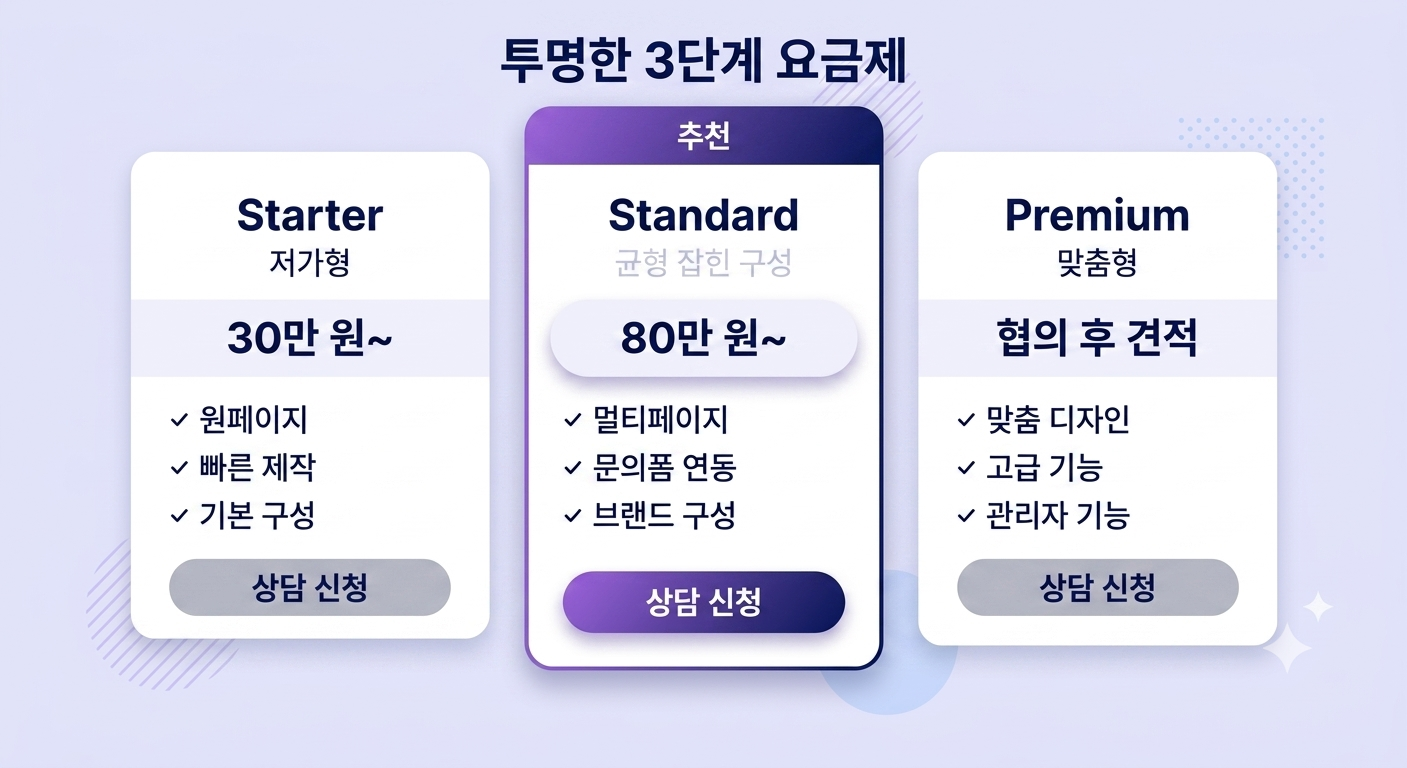
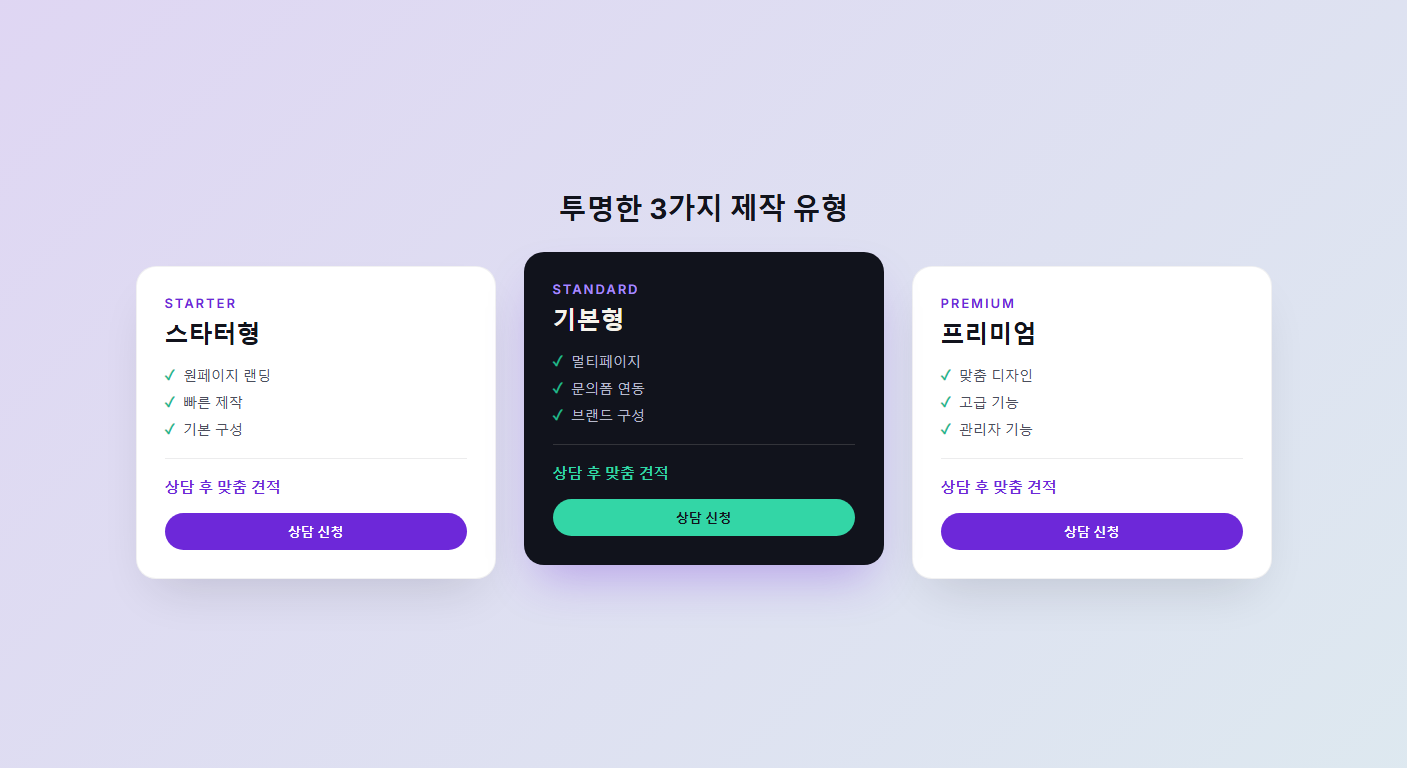
Improve homepage service flow

diff --git a/BuilDOn-site-clean/index.html b/BuilDOn-site-clean/index.html
@@ -457,11 +457,57 @@
     </div>
   </section>
 
-  <!-- ===================== BANNER STRIP ===================== -->
-  <section class="bg-violet">
-    <div class="max-w-7xl mx-auto px-6 lg:px-10 py-6 flex flex-col sm:flex-row items-center justify-between gap-4 text-center sm:text-left">
-      <p class="text-cream text-sm sm:text-base font-medium">여러분의 홈페이지 제작, 투명한 3단계 요금제로 알려드립니다.</p>
-      <a href="#services"><button class="btn-cream px-5 py-2.5 rounded-full text-sm font-medium whitespace-nowrap">요금제 보러가기 →</button></a>
+  <!-- ===================== OUR SERVICE ===================== -->
+  <section id="services" class="bg-white py-24 sm:py-32">
+    <div class="max-w-7xl mx-auto px-6 lg:px-10">
+      <div class="text-center mb-16">
+        <p class="text-ink/50 text-sm">처음 시작하는 홈페이지부터 맞춤형 제작까지, 예산과 목적에 맞춰 문의로 이어지는 홈페이지를 만들어 드립니다.</p>
+        <h2 class="font-display text-3xl sm:text-4xl lg:text-5xl mt-3 inline-flex items-center gap-2">
+          Our Service <span class="w-2 h-2 rounded-full bg-violet inline-block"></span>
+        </h2>
+        <p class="text-ink/60 text-sm sm:text-base mt-4">예산과 목적에 맞는 세 가지 제작 방식 중에서 선택하세요 — 카드를 클릭하면 바로 상담 신청으로 이동합니다</p>
+      </div>
+
+      <div class="grid grid-cols-1 sm:grid-cols-3 gap-6 lg:gap-8">
+        <a href="#contact" class="service-card relative block bg-white rounded-2xl shadow-card border border-ink/8 p-8 overflow-hidden">
+          <p class="text-xs tracking-[0.2em] uppercase text-violet font-medium mb-4">Starter</p>
+          <h3 class="font-display text-2xl mb-2">스타터형</h3>
+          <p class="text-sm text-ink/60 leading-relaxed">1인기업·소규모 브랜드를 위한 원페이지/랜딩페이지 제작</p>
+          <div class="flex items-baseline gap-1 mt-6 mb-2">
+            <span class="text-violet font-semibold text-xl">상담 후 맞춤 견적</span><span class="text-ink/50 text-sm">· 3~5일</span>
+          </div>
+          <span class="inline-flex items-center gap-1 text-sm font-medium text-ink mt-4">
+            상담 신청하기 <span aria-hidden="true">→</span>
+          </span>
+          <svg class="absolute -right-3 -bottom-3 w-24 h-24 text-violet/10" viewBox="0 0 24 24" fill="currentColor"><path d="M9 12h6m-6 4h6m2 5H7a2 2 0 01-2-2V5a2 2 0 012-2h5.586a1 1 0 01.707.293l5.414 5.414a1 1 0 01.293.707V19a2 2 0 01-2 2z" /></svg>
+        </a>
+
+        <a href="#contact" class="service-card relative block bg-white rounded-2xl shadow-card border border-ink/8 p-8 overflow-hidden">
+          <p class="text-xs tracking-[0.2em] uppercase text-mint-dark font-medium mb-4">Standard</p>
+          <h3 class="font-display text-2xl mb-2">기본형</h3>
+          <p class="text-sm text-ink/60 leading-relaxed">멀티페이지 브랜드사이트, 예약·문의 폼 연동까지 갖춘 제작</p>
+          <div class="flex items-baseline gap-1 mt-6 mb-2">
+            <span class="text-violet font-semibold text-xl">상담 후 맞춤 견적</span><span class="text-ink/50 text-sm">· 1~2주</span>
+          </div>
+          <span class="inline-flex items-center gap-1 text-sm font-medium text-ink mt-4">
+            상담 신청하기 <span aria-hidden="true">→</span>
+          </span>
+          <svg class="absolute -right-3 -bottom-3 w-24 h-24 text-mint/10" viewBox="0 0 24 24" fill="currentColor"><path d="M3.75 6A2.25 2.25 0 016 3.75h2.25A2.25 2.25 0 0110.5 6v2.25a2.25 2.25 0 01-2.25 2.25H6a2.25 2.25 0 01-2.25-2.25V6zM3.75 15.75A2.25 2.25 0 016 13.5h2.25a2.25 2.25 0 012.25 2.25V18a2.25 2.25 0 01-2.25 2.25H6A2.25 2.25 0 013.75 18v-2.25zM13.5 6a2.25 2.25 0 012.25-2.25H18A2.25 2.25 0 0120.25 6v2.25A2.25 2.25 0 0118 10.5h-2.25a2.25 2.25 0 01-2.25-2.25V6zM13.5 15.75a2.25 2.25 0 012.25-2.25H18a2.25 2.25 0 012.25 2.25V18A2.25 2.25 0 0118 20.25h-2.25A2.25 2.25 0 0113.5 18v-2.25z" /></svg>
+        </a>
+
+        <a href="#contact" class="service-card relative block bg-ink rounded-2xl shadow-card p-8 overflow-hidden">
+          <p class="text-xs tracking-[0.2em] uppercase text-mint font-medium mb-4">Premium</p>
+          <h3 class="font-display text-2xl mb-2 text-cream">프리미엄</h3>
+          <p class="text-sm text-creamMuted leading-relaxed">완전 맞춤 디자인, 이커머스·관리자 페이지까지 포함하는 풀커스텀 제작</p>
+          <div class="flex items-baseline gap-1 mt-6 mb-2">
+            <span class="text-mint font-semibold text-xl">상담 후 맞춤 견적</span><span class="text-creamMuted text-sm">· 3~4주+</span>
+          </div>
+          <span class="inline-flex items-center gap-1 text-sm font-medium text-cream mt-4">
+            상담 신청하기 <span aria-hidden="true">→</span>
+          </span>
+          <svg class="absolute -right-3 -bottom-3 w-24 h-24 text-cream/10" viewBox="0 0 24 24" fill="currentColor"><path d="M9.813 15.904L9 18.75l-.813-2.846a4.5 4.5 0 00-3.09-3.09L2.25 12l2.846-.813a4.5 4.5 0 003.09-3.09L9 5.25l.813 2.846a4.5 4.5 0 003.09 3.09L15.75 12l-2.846.813a4.5 4.5 0 00-3.09 3.09zM18.259 8.715L18 9.75l-.259-1.035a3.375 3.375 0 00-2.455-2.456L14.25 6l1.036-.259a3.375 3.375 0 002.455-2.456L18 2.25l.259 1.035a3.375 3.375 0 002.456 2.456L21.75 6l-1.035.259a3.375 3.375 0 00-2.456 2.456z" /></svg>
+        </a>
+      </div>
     </div>
   </section>
 
@@ -530,12 +576,12 @@
       <div class="space-y-20 sm:space-y-28">
         <div class="grid grid-cols-1 lg:grid-cols-2 gap-10 lg:gap-16 items-center">
           <div class="rounded-2xl aspect-[1407/768] overflow-hidden order-2 lg:order-1">
-            <img src="Difference/1.png" alt="투명한 3단계 요금제 안내 화면" class="w-full h-full object-cover">
+            <img src="Difference/1.png" alt="스타터형·기본형·프리미엄 제작 유형 안내 화면" class="w-full h-full object-cover">
           </div>
           <div class="order-1 lg:order-2">
-            <p class="inline-flex items-center gap-2 text-xs text-violet font-medium mb-3"><span class="w-6 h-6 rounded-full bg-violet/[0.18] flex items-center justify-center text-[11px]">1</span>투명한 요금제</p>
+            <p class="inline-flex items-center gap-2 text-xs text-violet font-medium mb-3"><span class="w-6 h-6 rounded-full bg-violet/[0.18] flex items-center justify-center text-[11px]">1</span>투명한 제작 유형</p>
             <h3 class="font-display font-extrabold text-3xl sm:text-4xl mb-4">복잡한 견적 없이,<br><span class="text-violet">투명하게</span> 안내합니다.</h3>
-            <p class="text-ink/80 font-medium text-sm sm:text-base leading-relaxed max-w-md">예산에 맞는 스타터형·기본형·프리미엄<br>요금제를 미리 공개합니다.</p>
+            <p class="text-ink/80 font-medium text-sm sm:text-base leading-relaxed max-w-md">스타터형·기본형·프리미엄 세 가지 제작 유형 중<br>상담을 통해 범위에 맞는 견적을 안내해 드립니다.</p>
           </div>
         </div>
 
@@ -673,60 +719,6 @@
           <p class="font-display text-base mb-1">제작 완료</p>
           <p class="text-xs text-ink/50 leading-relaxed">최종 검토 후 홈페이지를 오픈합니다.</p>
         </div>
-      </div>
-    </div>
-  </section>
-
-  <!-- ===================== OUR SERVICE ===================== -->
-  <section id="services" class="bg-white py-24 sm:py-32">
-    <div class="max-w-7xl mx-auto px-6 lg:px-10">
-      <div class="text-center mb-16">
-        <p class="text-ink/50 text-sm">처음 시작하는 홈페이지부터 맞춤형 제작까지, 예산과 목적에 맞춰 문의로 이어지는 홈페이지를 만들어 드립니다.</p>
-        <h2 class="font-display text-3xl sm:text-4xl lg:text-5xl mt-3 inline-flex items-center gap-2">
-          Our Service <span class="w-2 h-2 rounded-full bg-violet inline-block"></span>
-        </h2>
-        <p class="text-ink/60 text-sm sm:text-base mt-4">예산과 목적에 맞는 세 가지 제작 방식 중에서 선택하세요 — 카드를 클릭하면 바로 상담 신청으로 이동합니다</p>
-      </div>
-
-      <div class="grid grid-cols-1 sm:grid-cols-3 gap-6 lg:gap-8">
-        <a href="#contact" class="service-card relative block bg-white rounded-2xl shadow-card border border-ink/8 p-8 overflow-hidden">
-          <p class="text-xs tracking-[0.2em] uppercase text-violet font-medium mb-4">Starter</p>
-          <h3 class="font-display text-2xl mb-2">스타터형</h3>
-          <p class="text-sm text-ink/60 leading-relaxed">1인기업·소규모 브랜드를 위한 원페이지/랜딩페이지 제작</p>
-          <div class="flex items-baseline gap-1 mt-6 mb-2">
-            <span class="text-violet font-semibold text-xl">상담 후 맞춤 견적</span><span class="text-ink/50 text-sm">· 3~5일</span>
-          </div>
-          <span class="inline-flex items-center gap-1 text-sm font-medium text-ink mt-4">
-            상담 신청하기 <span aria-hidden="true">→</span>
-          </span>
-          <svg class="absolute -right-3 -bottom-3 w-24 h-24 text-violet/10" viewBox="0 0 24 24" fill="currentColor"><path d="M9 12h6m-6 4h6m2 5H7a2 2 0 01-2-2V5a2 2 0 012-2h5.586a1 1 0 01.707.293l5.414 5.414a1 1 0 01.293.707V19a2 2 0 01-2 2z" /></svg>
-        </a>
-
-        <a href="#contact" class="service-card relative block bg-white rounded-2xl shadow-card border border-ink/8 p-8 overflow-hidden">
-          <p class="text-xs tracking-[0.2em] uppercase text-mint-dark font-medium mb-4">Standard</p>
-          <h3 class="font-display text-2xl mb-2">기본형</h3>
-          <p class="text-sm text-ink/60 leading-relaxed">멀티페이지 브랜드사이트, 예약·문의 폼 연동까지 갖춘 제작</p>
-          <div class="flex items-baseline gap-1 mt-6 mb-2">
-            <span class="text-violet font-semibold text-xl">상담 후 맞춤 견적</span><span class="text-ink/50 text-sm">· 1~2주</span>
-          </div>
-          <span class="inline-flex items-center gap-1 text-sm font-medium text-ink mt-4">
-            상담 신청하기 <span aria-hidden="true">→</span>
-          </span>
-          <svg class="absolute -right-3 -bottom-3 w-24 h-24 text-mint/10" viewBox="0 0 24 24" fill="currentColor"><path d="M3.75 6A2.25 2.25 0 016 3.75h2.25A2.25 2.25 0 0110.5 6v2.25a2.25 2.25 0 01-2.25 2.25H6a2.25 2.25 0 01-2.25-2.25V6zM3.75 15.75A2.25 2.25 0 016 13.5h2.25a2.25 2.25 0 012.25 2.25V18a2.25 2.25 0 01-2.25 2.25H6A2.25 2.25 0 013.75 18v-2.25zM13.5 6a2.25 2.25 0 012.25-2.25H18A2.25 2.25 0 0120.25 6v2.25A2.25 2.25 0 0118 10.5h-2.25a2.25 2.25 0 01-2.25-2.25V6zM13.5 15.75a2.25 2.25 0 012.25-2.25H18a2.25 2.25 0 012.25 2.25V18A2.25 2.25 0 0118 20.25h-2.25A2.25 2.25 0 0113.5 18v-2.25z" /></svg>
-        </a>
-
-        <a href="#contact" class="service-card relative block bg-ink rounded-2xl shadow-card p-8 overflow-hidden">
-          <p class="text-xs tracking-[0.2em] uppercase text-mint font-medium mb-4">Premium</p>
-          <h3 class="font-display text-2xl mb-2 text-cream">프리미엄</h3>
-          <p class="text-sm text-creamMuted leading-relaxed">완전 맞춤 디자인, 이커머스·관리자 페이지까지 포함하는 풀커스텀 제작</p>
-          <div class="flex items-baseline gap-1 mt-6 mb-2">
-            <span class="text-mint font-semibold text-xl">상담 후 맞춤 견적</span><span class="text-creamMuted text-sm">· 3~4주+</span>
-          </div>
-          <span class="inline-flex items-center gap-1 text-sm font-medium text-cream mt-4">
-            상담 신청하기 <span aria-hidden="true">→</span>
-          </span>
-          <svg class="absolute -right-3 -bottom-3 w-24 h-24 text-cream/10" viewBox="0 0 24 24" fill="currentColor"><path d="M9.813 15.904L9 18.75l-.813-2.846a4.5 4.5 0 00-3.09-3.09L2.25 12l2.846-.813a4.5 4.5 0 003.09-3.09L9 5.25l.813 2.846a4.5 4.5 0 003.09 3.09L15.75 12l-2.846.813a4.5 4.5 0 00-3.09 3.09zM18.259 8.715L18 9.75l-.259-1.035a3.375 3.375 0 00-2.455-2.456L14.25 6l1.036-.259a3.375 3.375 0 002.455-2.456L18 2.25l.259 1.035a3.375 3.375 0 002.456 2.456L21.75 6l-1.035.259a3.375 3.375 0 00-2.456 2.456z" /></svg>
-        </a>
       </div>
     </div>
   </section>